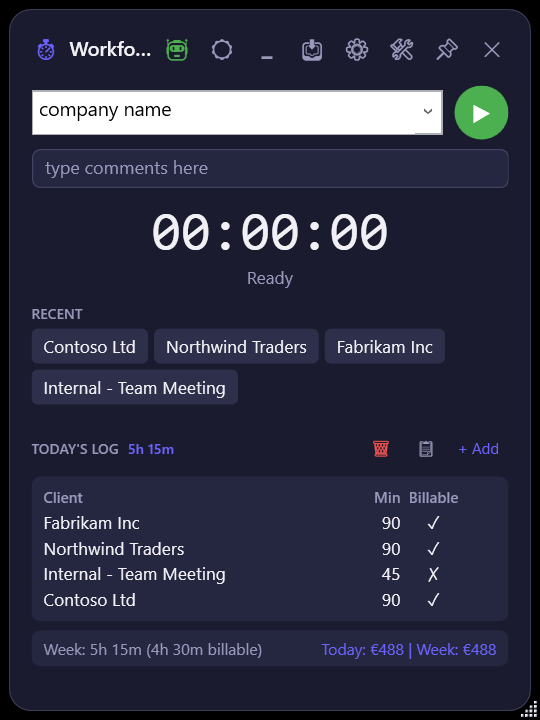
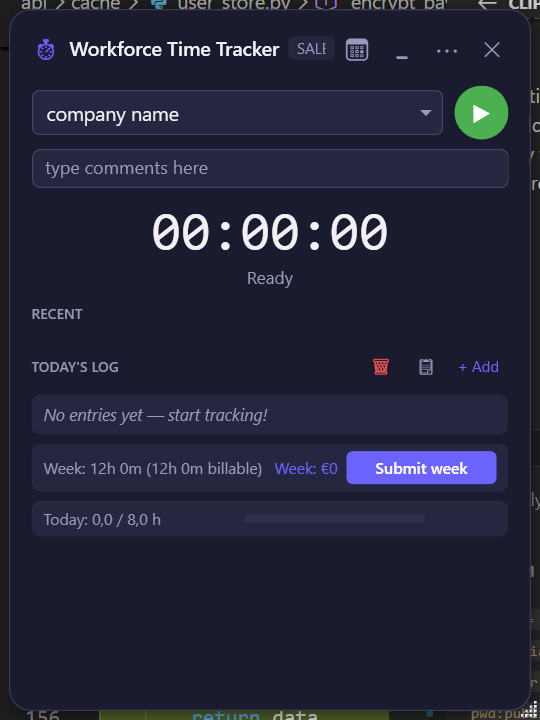
Site: refresh compact + main-dark screenshots, drop competitor naming, fix overstated Mac/Company-tier claims

diff --git a/index.html b/index.html
@@ -5,7 +5,7 @@
     <meta name="viewport" content="width=device-width, initial-scale=1.0">
     <title>Workforce Time Tracker - Offline time tracker for Windows + macOS, no cloud account</title>
     <meta name="description" content="Offline desktop time tracker for consultants, freelancers and CRM-heavy teams. Multi-device sync via your own Dropbox / OneDrive / iCloud / SyncThing folder. No account, no subscription, no telemetry. Windows + macOS, EUR 5/user/month.">
-    <meta name="keywords" content="offline time tracker, desktop time tracker, time tracker no account, salesforce time tracker, dynamics 365 time tracker, jira time tracker, gdpr time tracker, self-hosted time tracker, clockify alternative, toggl alternative, harvest alternative, multi-device sync no cloud, dropbox time tracker, onedrive time tracker, icloud time tracker, syncthing time tracker, windows time tracker, macos time tracker, billable hours app, freelancer time tracking, consultant time tracking, crm time tracking, fixed-fee project budget, daily billable goal, manager approval workflow, pdf invoice from timesheet">
+    <meta name="keywords" content="offline time tracker, desktop time tracker, time tracker no account, salesforce time tracker, dynamics 365 time tracker, jira time tracker, gdpr time tracker, self-hosted time tracker, multi-device sync no cloud, dropbox time tracker, onedrive time tracker, icloud time tracker, syncthing time tracker, windows time tracker, macos time tracker, billable hours app, freelancer time tracking, consultant time tracking, crm time tracking, fixed-fee project budget, daily billable goal, manager approval workflow, pdf invoice from timesheet">
     <meta name="author" content="Workforce Time Tracker">
     <meta name="robots" content="index, follow, max-image-preview:large, max-snippet:-1">
     <meta name="theme-color" content="#6366f1">
@@ -53,10 +53,10 @@
         "url": "https://workforcetimetracker.com/",
         "image": "https://workforcetimetracker.com/og-image.png",
         "screenshot": [
+            "https://workforcetimetracker.com/screenshots/compact.png",
+            "https://workforcetimetracker.com/screenshots/tracking.png",
             "https://workforcetimetracker.com/screenshots/main-dark.png",
             "https://workforcetimetracker.com/screenshots/main-light.png",
-            "https://workforcetimetracker.com/screenshots/tracking.png",
-            "https://workforcetimetracker.com/screenshots/compact.png",
             "https://workforcetimetracker.com/screenshots/settings.png"
         ],
         "description": "Offline desktop time tracker for consultants, freelancers, agencies and CRM-heavy teams. Logs billable hours per customer, exports to Excel/CSV/PDF invoice, syncs across your own devices via any folder you already replicate (Dropbox, OneDrive, iCloud, SyncThing, NAS). No account, no subscription, no telemetry.",
@@ -188,15 +188,7 @@
                 "name": "Is there a Mac version of Workforce Time Tracker?",
                 "acceptedAnswer": {
                     "@type": "Answer",
-                    "text": "Yes - macOS 13 and later on Apple Silicon, currently in alpha. Same product, same data files as Windows, one licence unlocks both platforms. The Mac build is feature-complete (week calendar, idle prompt, PDF invoicing, Clockify import, multi-device sync) but is ad-hoc-signed so Gatekeeper needs one click on first launch."
-                }
-            },
-            {
-                "@type": "Question",
-                "name": "How is Workforce Time Tracker different from Clockify or Toggl?",
-                "acceptedAnswer": {
-                    "@type": "Answer",
-                    "text": "Clockify and Toggl are cloud SaaS - your hours and clients live on their servers, behind a vendor account. Workforce Time Tracker is a one-time-purchase desktop app that stores everything in plain JSON files on your machine. No vendor account, no telemetry, works air-gapped, and multi-device sync uses any folder you already sync (Dropbox/OneDrive/iCloud/SyncThing) without giving us your data."
+                    "text": "Yes - macOS 13 and later on Apple Silicon, currently in alpha. Same product, same data files as Windows, one licence unlocks both platforms. The Mac build covers the core day-to-day workflow (week calendar, idle prompt, PDF invoicing, Clockify import, multi-device sync) but is ad-hoc-signed so Gatekeeper needs one click on first launch. A few Win-only refinements (compact-mode transparency slider, overflow menu polish) ship to Mac in the next release."
                 }
             },
             {
@@ -486,7 +478,6 @@
             <li><a href="#whats-new">What's new</a></li>
             <li><a href="updates.html">Updates</a></li>
             <li><a href="#sovereignty">Sovereignty</a></li>
-            <li><a href="vs-clockify.html">vs Clockify</a></li>
             <li><a href="#editions">Editions</a></li>
             <li><a href="#pricing">Pricing</a></li>
             <li><a href="#download" class="nav-cta">Download</a></li>
@@ -507,7 +498,7 @@
                 <svg width="16" height="16" viewBox="0 0 16 16" fill="currentColor"><path d="M8 12l-4-4h2.5V2h3v6H12L8 12zm-6 2h12v1.5H2V14z"/></svg>
                 Download Free Trial
             </a>
-            <a href="vs-clockify.html" class="btn btn-secondary">Compare to Clockify</a>
+            <a href="#features" class="btn btn-secondary">See features</a>
         </div>
         <div class="hero-stats">
             <div class="stat"><div class="stat-value">100%</div><div class="stat-label">Offline &amp; sovereign</div></div>
@@ -526,8 +517,19 @@
     <div class="carousel-wrapper">
         <div class="carousel-track" id="carouselTrack">
 
-            <!-- Slide 1: Active Tracking -->
+            <!-- Slide 1: Compact Mode (lead image - the unique floating tracker) -->
             <div class="carousel-slide" data-slide="0" onclick="openLightbox(0)">
+                <div class="slide-header">
+                    <span class="slide-title">Compact Mode</span>
+                    <div class="slide-dots"><span></span><span></span><span></span></div>
+                </div>
+                <div class="slide-body compact-slide">
+                    <img src="screenshots/compact.png" alt="Compact mode floating tracker with adjustable transparency that stays out of your way" loading="lazy">
+                </div>
+            </div>
+
+            <!-- Slide 2: Active Tracking -->
+            <div class="carousel-slide" data-slide="1" onclick="openLightbox(1)">
                 <div class="slide-header">
                     <span class="slide-title">Active Tracking</span>
                     <div class="slide-dots"><span></span><span></span><span></span></div>
@@ -537,8 +539,8 @@
                 </div>
             </div>
 
-            <!-- Slide 2: Daily Overview (Dark) -->
-            <div class="carousel-slide" data-slide="1" onclick="openLightbox(1)">
+            <!-- Slide 3: Daily Overview (Dark) -->
+            <div class="carousel-slide" data-slide="2" onclick="openLightbox(2)">
                 <div class="slide-header">
                     <span class="slide-title">Daily Overview</span>
                     <div class="slide-dots"><span></span><span></span><span></span></div>
@@ -548,25 +550,14 @@
                 </div>
             </div>
 
-            <!-- Slide 3: Light Theme -->
-            <div class="carousel-slide" data-slide="2" onclick="openLightbox(2)">
+            <!-- Slide 4: Light Theme -->
+            <div class="carousel-slide" data-slide="3" onclick="openLightbox(3)">
                 <div class="slide-header">
                     <span class="slide-title">Light Theme</span>
                     <div class="slide-dots"><span></span><span></span><span></span></div>
                 </div>
                 <div class="slide-body">
                     <img src="screenshots/main-light.png" alt="Light theme variant with clean white background and full daily log" loading="lazy">
-                </div>
-            </div>
-
-            <!-- Slide 4: Compact Mode -->
-            <div class="carousel-slide" data-slide="3" onclick="openLightbox(3)">
-                <div class="slide-header">
-                    <span class="slide-title">Compact Mode</span>
-                    <div class="slide-dots"><span></span><span></span><span></span></div>
-                </div>
-                <div class="slide-body compact-slide">
-                    <img src="screenshots/compact.png" alt="Compact mode showing minimal toolbar that stays out of your way" loading="lazy">
                 </div>
             </div>
 
@@ -840,7 +831,7 @@
             </div>
             <div class="faq-item fade-in">
                 <h3>Is there a Mac version?</h3>
-                <p>Yes - macOS 13+ on Apple Silicon, currently in <strong>ALPHA</strong>. Same product, same data files, one license unlocks both platforms. The Mac build is feature-complete (week calendar, idle prompt, PDF invoicing, Clockify import - everything the Windows build has), but it is ad-hoc-signed (Gatekeeper needs one click on first launch) and we are still hardening the Mac-specific bits like Accessibility permission flow and Login Item registration. Report bugs at support@workforcetimetracker.com.</p>
+                <p>Yes - macOS 13+ on Apple Silicon, currently in <strong>ALPHA</strong>. Same product, same data files, one license unlocks both platforms. The Mac build covers the core day-to-day workflow (week calendar, idle prompt, PDF invoicing, Clockify import, multi-device sync), but it is ad-hoc-signed (Gatekeeper needs one click on first launch) and we are still hardening the Mac-specific bits like Accessibility permission flow and Login Item registration. A few Win-only refinements (compact-mode transparency slider, overflow menu polish) ship to Mac in the next release. Report bugs at support@workforcetimetracker.com.</p>
             </div>
         </div>
     </div>
@@ -870,7 +861,6 @@
         <div class="footer-left">&copy; 2026 Workforce Time Tracker. All rights reserved. Made for people who want their data to stay theirs.</div>
         <ul class="footer-links">
             <li><a href="updates.html">Updates</a></li>
-            <li><a href="vs-clockify.html">vs Clockify</a></li>
             <li><a href="mac.html">macOS</a></li>
             <li><a href="guide.html">User Guide</a></li>
             <li><a href="privacy.html">Privacy</a></li>
@@ -958,7 +948,6 @@ const PRICING = [
             "Same product, every tier",
             "All editions (Standalone, Salesforce, Dynamics 365)",
             "Unlimited customers & entries",
-            "Priority email support",
             "Save €12/year vs monthly"
         ],
         cta: "Buy with Stripe", href: STRIPE_BUY.annual,
@@ -972,8 +961,7 @@ const PRICING = [
             "Same product, every tier",
             "All editions (Standalone, Salesforce, Dynamics 365)",
             "Volume discount on multiple seats",
-            "Centralised deployment & shared admin policies",
-            "Dedicated support contact"
+            "Pre-deployable admin defaults (orgsettings.json) + silent installer"
         ],
         cta: "Contact Sales", href: STRIPE_BUY.company,
         secondaryCta: "Try free first", secondaryHref: "#download",
